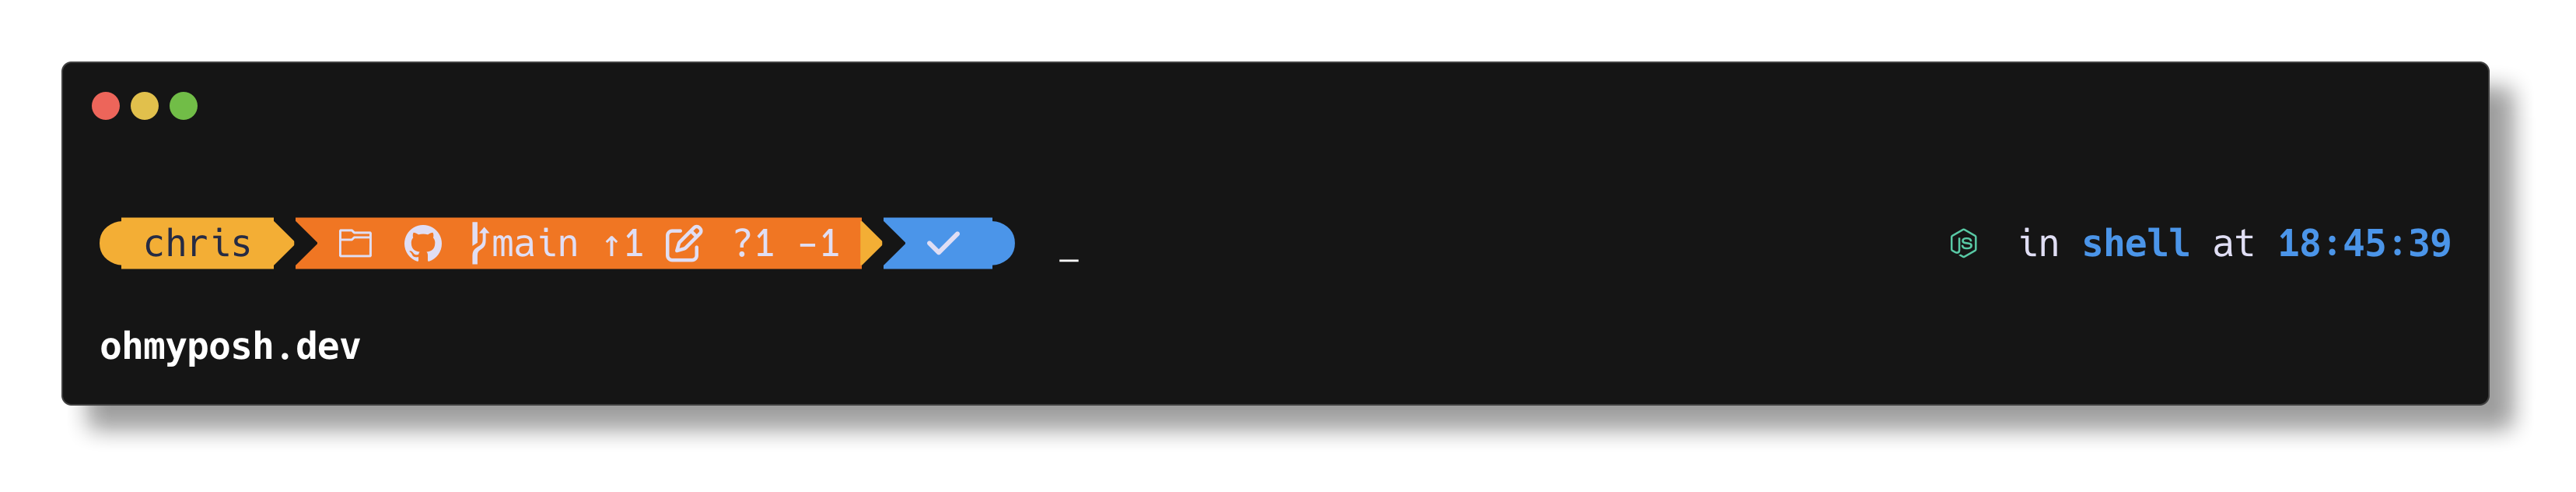
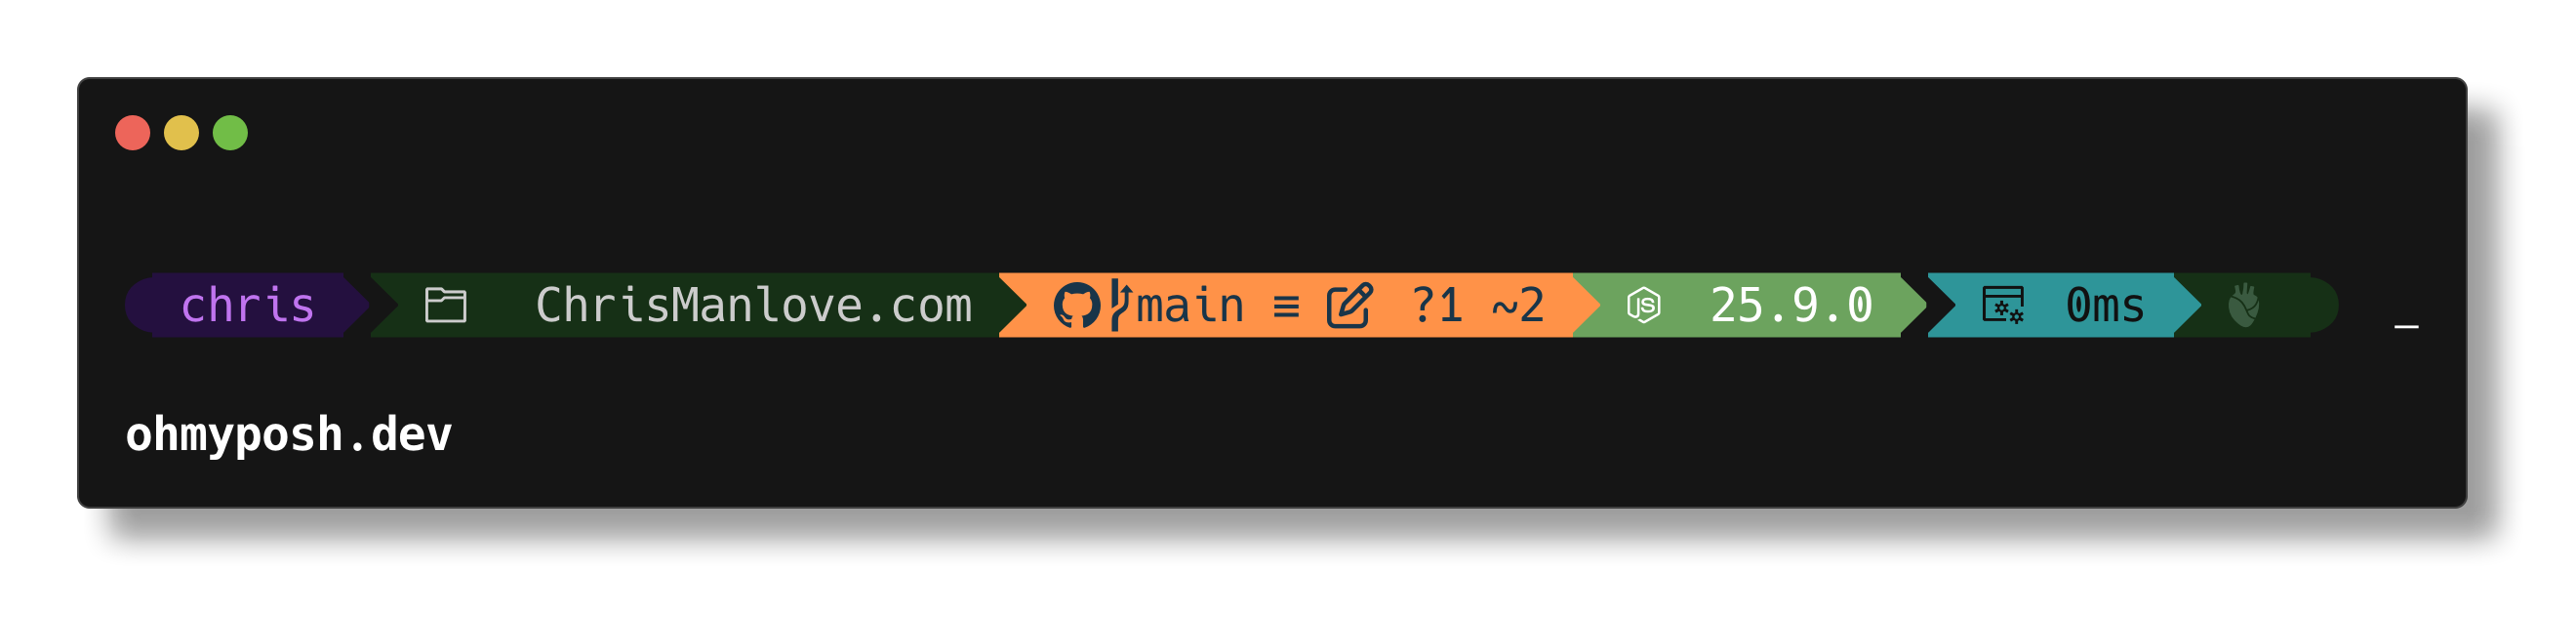
Finished first blog post

Changed region(s): [[0.0, 0.1203, 0.9939, 0.8718], [0.0311, 0.8117, 0.0621, 0.8718]]

diff --git a/src/content/blog/oh-my-posh-ubuntu.md b/src/content/blog/oh-my-posh-ubuntu.md
@@ -2,7 +2,7 @@
 title: "Setting Up oh-my-posh on Ubuntu Linux"
 author: "Chris Manlove"
 createdAt: 2026-06-23
-updatedAt: 2026-06-25
+updatedAt: 2026-06-26
 ---
 
 ## Introduction
@@ -14,6 +14,7 @@ While working at JudicateWest, one of my coworkers introduced me to oh-my-posh. 
 1.  First thing first, you want to open a terminal and run the command
 
 ```
+mkdir -p ~/.local/bin
 curl -s https://ohmyposh.dev/install.sh | bash -s -- -d ~/.local/bin
 ```
 
@@ -33,11 +34,7 @@ After all this you can run `oh-my-posh --version` to make sure that oh-my-posh w
 
 4a. Now that the font is installed, you need to tell your terminal to actually use it. On Ubuntu with the GNOME desktop environment, the default terminal is **GNOME Terminal**. Open it and go to **Edit --> Preferences**. Under the **Profiles** tab, select your active profile (usually "Unnamed") and check **Custom font**. Click the font button next to it, search for **Hack Nerd Font Mono**, and select it. Click **Close** and your terminal will now render oh-my-posh symbols correctly.
 
-4b. I work with VS Code's integrated terminal and the font needs to be set there separately. If you haven't installed VS Code yet, you can install it via apt by first adding the Microsoft package repository:
-
-```bash
-WORK IN PROGRESS
-```
+4b. I work with VS Code's integrated terminal and the font needs to be set there separately. If you haven't installed VS Code yet, check out the [official install instructions](https://code.visualstudio.com/docs/setup/linux).
 
 Once VS Code is open, go to **File --> Preferences --> Settings** (or press `Ctrl+,`) and search for **Terminal Font Family**. In the **Terminal --> Integrated: Font Family** field, enter:
 
@@ -47,18 +44,34 @@ Once VS Code is open, go to **File --> Preferences --> Settings** (or press `Ctr
 
 The quotes are important as VS Code expects font family names in CSS format. After saving, open a new integrated terminal with `Ctrl+`` ` and oh-my-posh should render properly.
 
+5. Now you can activate oh-my-posh. Run the following command to add the initialization line to your `.bashrc` and apply it immediately:
+
+```bash
+echo 'eval "$(oh-my-posh init bash)"' >> ~/.bashrc && source ~/.bashrc
+```
+
+This will start oh-my-posh with the default theme. To use a specific theme, see the next section.
+
 ## My Config
+
+You can download my config [here](/hft.omp.json). Once downloaded, move it to the oh-my-posh themes directory with:
+
+```bash
+mv ~/Downloads/hft.omp.json ~/.cache/oh-my-posh/themes/
+```
+
+Then run the following command to add it to your `.bashrc` and apply it immediately:
+
+```bash
+echo 'eval "$(oh-my-posh init bash --config ~/.cache/oh-my-posh/themes/hft.omp.json)"' >> ~/.bashrc && source ~/.bashrc
+```
 
 After dialing in my config, here's what the final prompt looks like:
 
-<img src="./images/oh-my-posh-ubuntu/oh-my-posh-theme.png" alt="oh-my-posh theme config" style="max-width: 100%; height: auto;" />
+![oh-my-posh theme config](./images/oh-my-posh-ubuntu/oh-my-posh-theme.png)
 
 > To generate this image yourself, run:
 >
 > ```bash
 > oh-my-posh config export image --output oh-my-posh-theme.png
 > ```
-
-## Configuration Breakdown
-
-## Tips